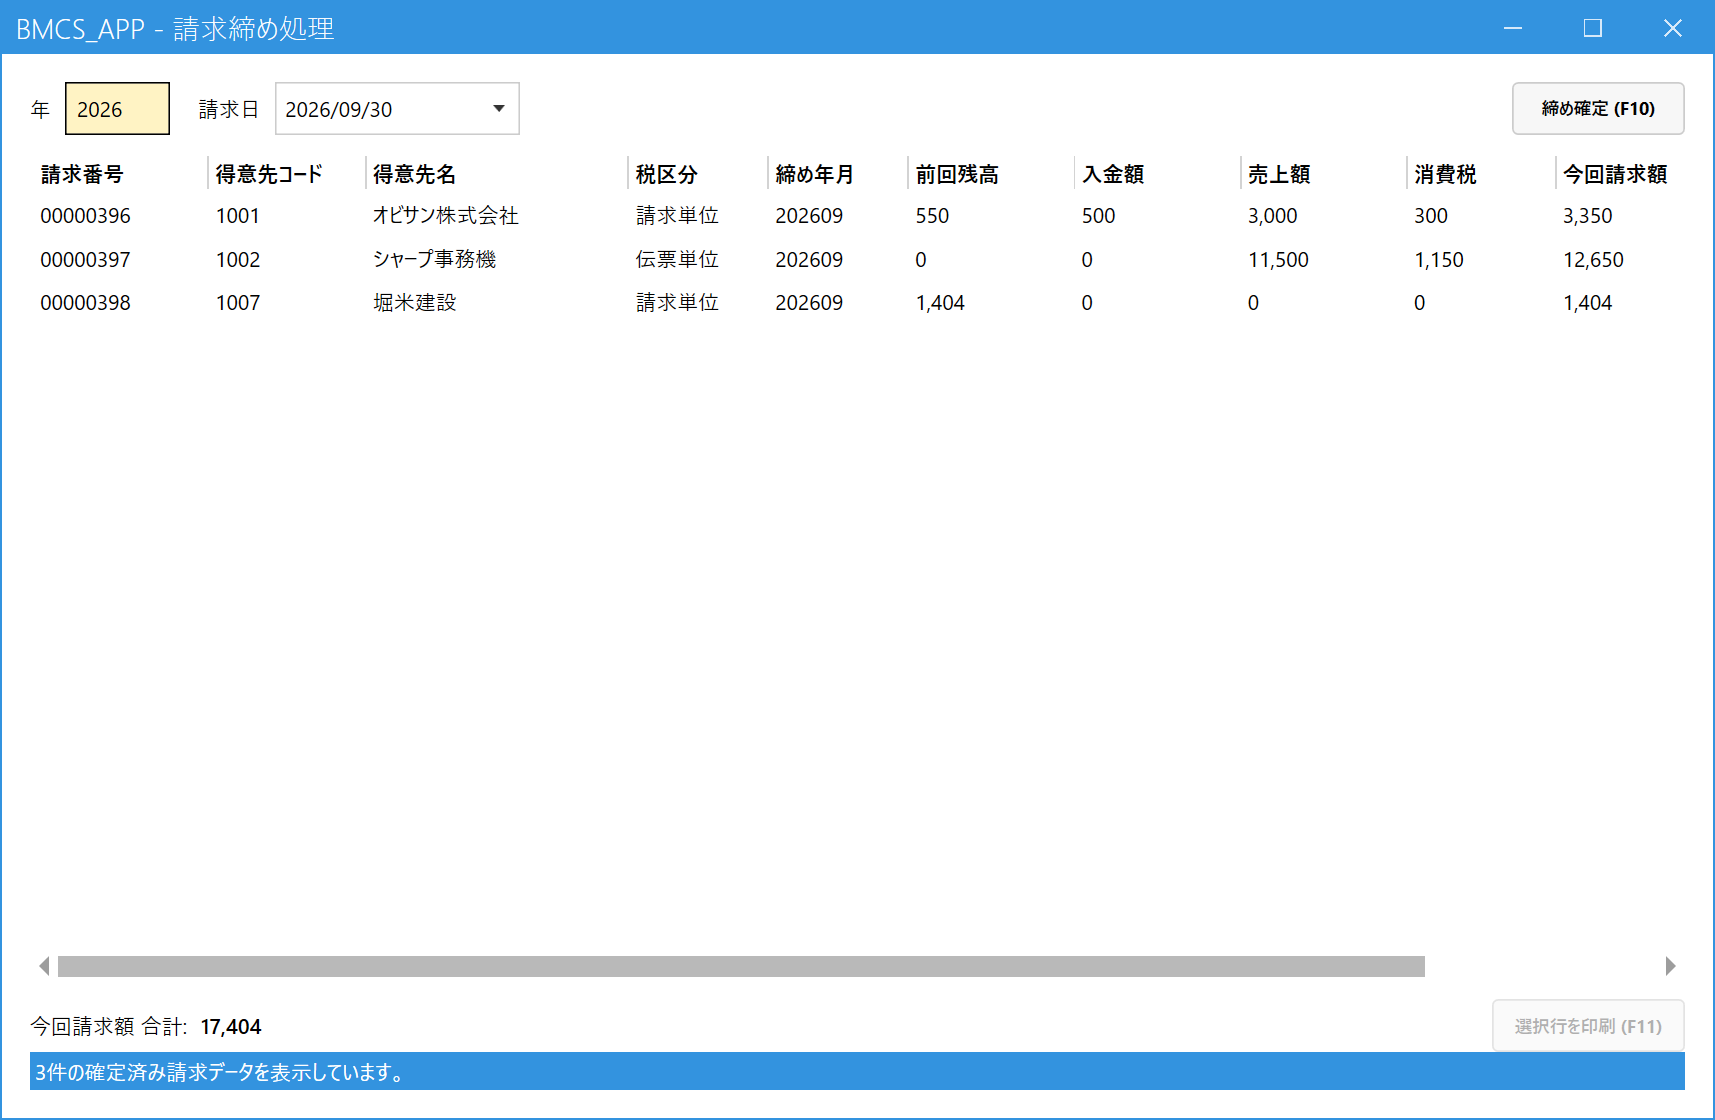
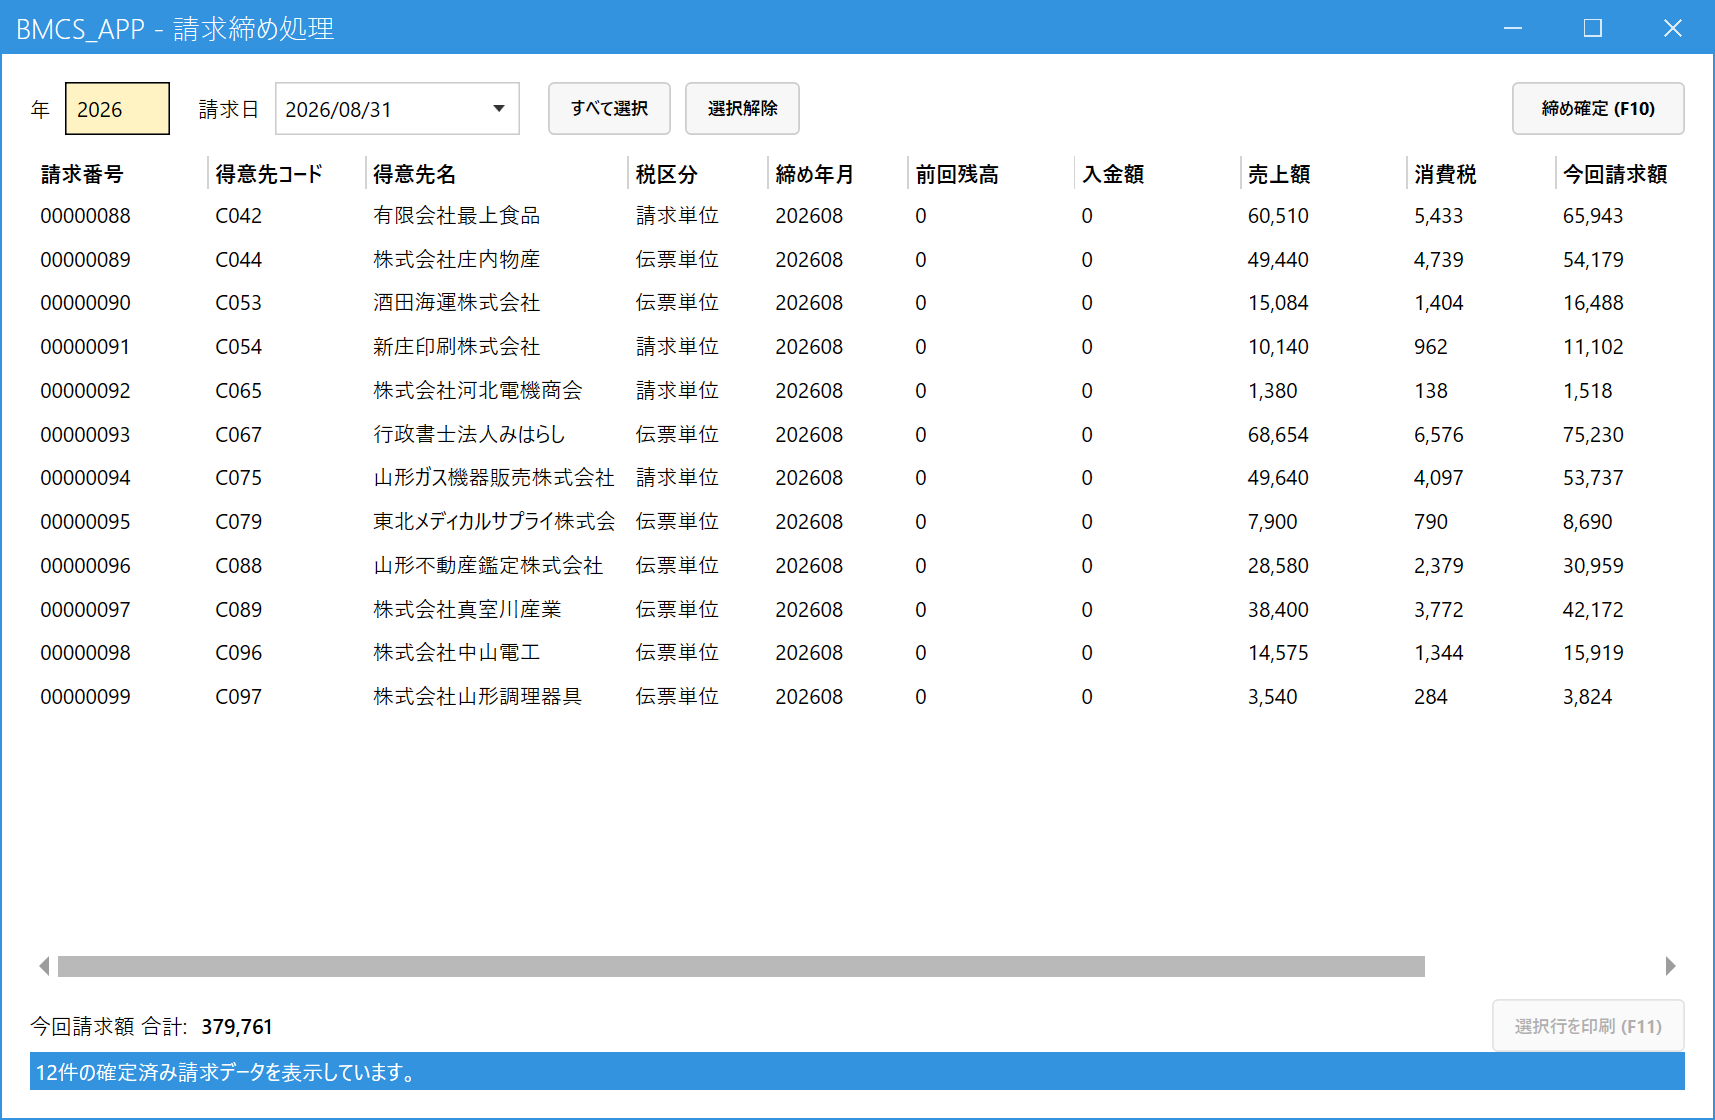
請求締め処理の一覧に「すべて選択」「選択解除」ボタンを追加する
印刷対象の行を一括で選択・解除できるようにした。選択状態はView→VM一方向同期のため、
コードビハインドからListViewのSelectAll/UnselectAllを呼ぶ。
操作マニュアル（本文・スクリーンショット・凡例）と設計書・帳票仕様も合わせて更新。

diff --git a/docs/user-manual-jp/billing-closing.html b/docs/user-manual-jp/billing-closing.html
@@ -26,8 +26,9 @@
  {"r":[65,82,105,53],"n":1},
  {"r":[275,82,245,53],"n":2},
  {"r":[30,159,1650,170],"n":3,"b":[900,520]},
- {"r":[1512,82,173,53],"n":4,"b":[1380,108]},
- {"r":[1492,999,193,53],"n":5,"b":[1350,900]}]'>
+ {"r":[548,82,252,53],"n":4},
+ {"r":[1512,82,173,53],"n":5,"b":[1380,108]},
+ {"r":[1492,999,193,53],"n":6,"b":[1350,900]}]'>
   <div class="frame"><img src="images/bclose-01-main.png" alt="請求締め処理画面"></div>
   <figcaption>請求締め処理画面（締め済みの請求データの一覧）</figcaption>
 </figure>
@@ -35,6 +36,7 @@
   <li><b>年</b>：見たい年を4桁で入れます（初期値は今年）。</li>
   <li><b>請求日</b>：その年に締めた日付の一覧から選びます。選んだ日に確定した請求データが下に出ます。</li>
   <li>確定済みの請求データ。<b>今回請求額 ＝ 前回残高 − 入金額 ＋ 売上額 ＋ 消費税</b>です。</li>
+  <li><b>すべて選択</b>／<b>選択解除</b>：一覧の全行を選ぶ、選択をすべて外す（3章）。</li>
   <li><b>締め確定 (F10)</b>：新しく請求を締めるときに押します（2章）。</li>
   <li><b>選択行を印刷 (F11)</b>：請求書を印刷・再印刷します（3章）。</li>
 </ol>
@@ -59,7 +61,7 @@
 
 <h2><span class="no">3.</span>請求書を印刷する</h2>
 <ol class="steps">
-  <li>一覧で、印刷したい請求データの行をクリックします。<kbd>Ctrl</kbd>・<kbd>Shift</kbd> を押しながらクリックすると<b>複数行</b>を選べます。</li>
+  <li>一覧で、印刷したい請求データの行をクリックします。<kbd>Ctrl</kbd>・<kbd>Shift</kbd> を押しながらクリックすると<b>複数行</b>を選べます。画面上部の <b>すべて選択</b> を押すと一覧の全行を選べ、<b>選択解除</b> で選択をすべて外せます。</li>
   <li><b>選択行を印刷 (F11)</b>（または行をダブルクリック／<kbd>Enter</kbd>）。</li>
   <li>プレビューが開きます。確認して印刷します（PDF保存もできます）。</li>
 </ol>

diff --git a/src/bmcs_app/Views/Billing/BillingClosingWindow.xaml b/src/bmcs_app/Views/Billing/BillingClosingWindow.xaml
@@ -45,10 +45,14 @@
                       ItemsSource="{Binding BillingDates}"
                       SelectedItem="{Binding ClosingDate}"
                       ItemStringFormat="yyyy/MM/dd" />
+
+            <!-- 印刷対象の一括選択。選択状態はView→VM一方向同期のため、ListViewを直接操作する。 -->
+            <Button DockPanel.Dock="Left" Content="すべて選択" Click="SelectAll_Click" Padding="12,6" Margin="16,0,0,0" />
+            <Button DockPanel.Dock="Left" Content="選択解除" Click="ClearSelection_Click" Padding="12,6" Margin="8,0,0,0" />
         </DockPanel>
 
         <!-- ===== 一覧 ===== -->
-        <ListView Grid.Row="1"
+        <ListView x:Name="ResultsList" Grid.Row="1"
                   ItemsSource="{Binding Results}"
                   SelectionMode="Extended"
                   beh:MultiSelectionBehavior.SelectedItems="{Binding SelectedResults}"

diff --git a/src/bmcs_app/Views/Billing/BillingClosingWindow.xaml.cs b/src/bmcs_app/Views/Billing/BillingClosingWindow.xaml.cs
@@ -1,3 +1,4 @@
+using System.Windows;
 using bmcs_app.ViewModels.Billing;
 using MahApps.Metro.Controls;
 
@@ -17,5 +18,18 @@ public partial class BillingClosingWindow : MetroWindow
                 await viewModel.LoadCommand.ExecuteAsync(null);
             }
         };
+    }
+
+    // フォーカスを一覧へ戻す（非アクティブな選択表示は薄いグレーになり、選択されたか分かりにくいため）。
+    private void SelectAll_Click(object sender, RoutedEventArgs e)
+    {
+        ResultsList.SelectAll();
+        ResultsList.Focus();
+    }
+
+    private void ClearSelection_Click(object sender, RoutedEventArgs e)
+    {
+        ResultsList.UnselectAll();
+        ResultsList.Focus();
     }
 }

diff --git a/docs/design_document.md b/docs/design_document.md
@@ -434,7 +434,8 @@ current_billing_amount = previous_balance - receipt_amount + sales_amount + tax_
 と同型。プレビューが無い分、何も見えない状態での即DB書き込みを避ける）。
 
 一覧は拡張選択（`SelectionMode="Extended"`、Ctrl/Shiftクリック。チェックボックス列は持たない）
-で複数行を選べる。選択した行はまとめて1つの`FixedDocument`に連結して
+で複数行を選べる。条件行の「すべて選択」「選択解除」ボタンで全行の選択・解除もできる
+（`ListView.SelectAll()`／`UnselectAll()`をコードビハインドから呼ぶ。選択状態はView→VM一方向同期のため）。選択した行はまとめて1つの`FixedDocument`に連結して
 1回のプレビューダイアログで印刷でき、これが請求書の再発行手段になる
 （`PagedReportDocumentBuilder.BuildInto`、`BillingClosingViewModel.PrintCommand`）。
 F11／ボタン／行のダブルクリック・Enter（`RowActivationBehavior`）のいずれからも「選択中の

diff --git a/docs/report-spec.md b/docs/report-spec.md
@@ -208,7 +208,7 @@ QuestPDF等の外部帳票ライブラリは使わない。QuestPDFはCommunity 
     確定済み請求データを請求日だけで抽出したものであり、「これから締めたら
     どうなるか」の集計プレビューではない。** これにより、画面を開き直しても過去に締めた
     請求書をいつでも再照会・再印刷できる（請求書の再発行手段）。一覧は拡張選択
-    （Ctrl/Shiftクリック）で複数行を選べ、「選択行を印刷 (F11)」で選択した全行をまとめて
+    （Ctrl/Shiftクリック、「すべて選択」「選択解除」ボタン）で複数行を選べ、「選択行を印刷 (F11)」で選択した全行をまとめて
     1つのプレビューに連結して印刷する。詳細は`docs/design_document.md` 9-7章
     「一覧＝確定済み請求データの照会」参照。
 
